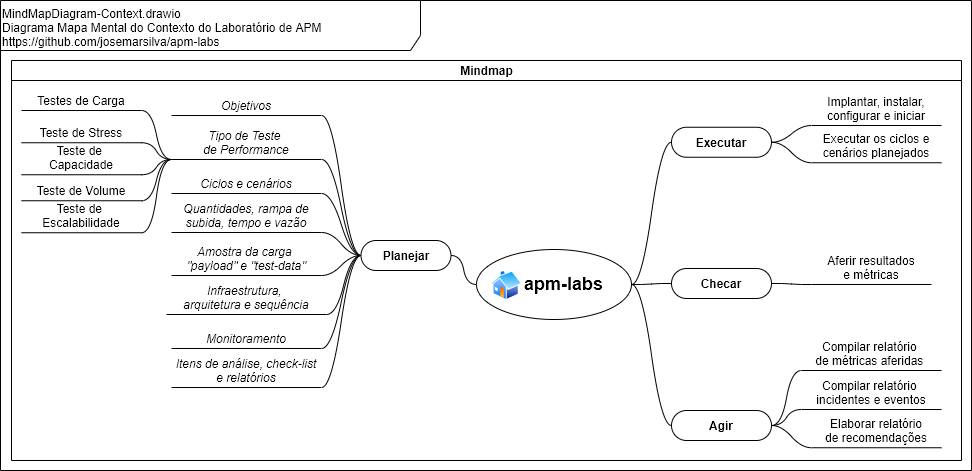
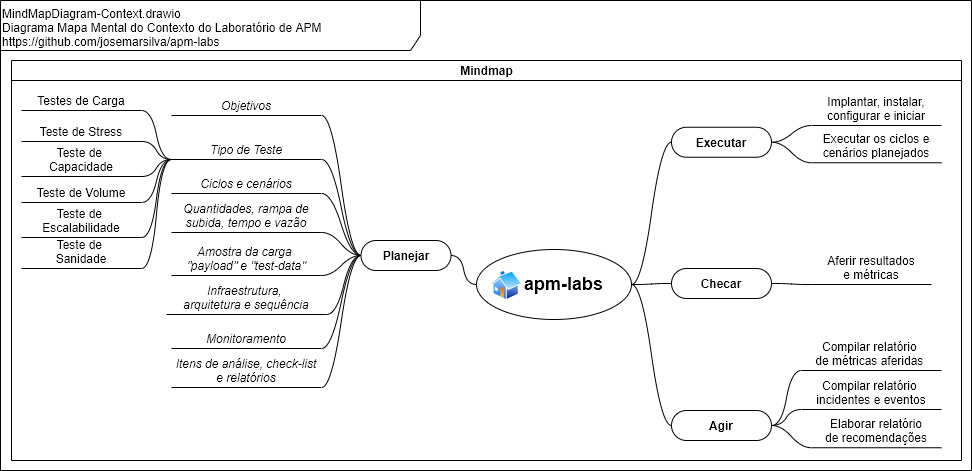
doc

Changed region(s): [[0.0309, 0.2675, 0.1852, 0.5648], [0.216, 0.2675, 0.3086, 0.327]]

diff --git a/README.md b/README.md
@@ -1,8 +1,26 @@
 # README - apm-labs
 
+Tabela de Conteúdo
+* 1. Introdução
+* 2. Documentação
+  * 2.1. Diagrama de Caso de Uso (Use Case Diagram)
+  * 2.2. Diagrama de Implantação (Deploy Diagram)
+  * 2.3. Diagrama de BPMN (Business Process Modeling Notation)
+  * 2.4. Diagrama de Mapa Mental (Mind Map Diagram)
+  * 2.5. Estratégia de Branches (Branch Strategy Workflow)
+  * 2.6. Glossário de Termos (Glossary)
+  * 2.7. Aviso
+* 3. Projeto
+  * 3.1. Pré-Requisitos, Pré-Condições e Premissas
+  * 3.2. Guia do Desenvolvedor e Administrador
+  * 3.3. Guia de Implantação, Configuração e Instalação
+  * 3.4. Guia de Execução, Demonstração e Cenários de Teste
+  * 3.5. Design Patterns, Standard, Conventions and Best Practices
+* I - Referências
+
 ## 1. Introdução
 
-O projeto **apm-labs** consiste em explorar cenários de _performance test_, _stress test_, _load test_ e _tuning_ de aplicações.
+O projeto **apm-labs** consiste em explorar cenários de testes **_Performance Test_**, **_Stress Test_**, **_load Test_** e **_Tuning_** de aplicações.
 
 
 ## 2. Documentação
@@ -26,25 +44,33 @@ O projeto **apm-labs** consiste em explorar cenários de _performance test_, _st
 
 ![MindMapDiagram-Context.png](./doc/MindMapDiagram-Context.png) 
 
-De uma forma geral, vamos tentar caracterizar cada um dos *tipos de testes* de acordo com seus _objetivos_ e _características_ :
 
-* *Teste de Carga*: tem como objetivo avaliar a capacidade da aplicação de manter a qualidade de desempenho _quando submetida a quantidades_ diversas de usuários ou transações
-* *Teste de Capacidade*: semelhante ao teste de carga, tem como objetivo _identificar os limites que a aplicação_ é capaz de suportar, _dentro de parâmetros de qualidades definidos_, quando submetida a elevação da quantidade de carga de usuários ou transações
-* *Teste de Stress*: tem como objetivo _encontrar o limite da aplicação_ ao submetê-la a cargas que estão no limite ou acima do limite especificado inicialmente de usuários ou transações
-* *Testes de Volume*: tem como objetivo avaliar capacidade da aplicação quando submetida a elevação da _quantidade de dados_ que o sistema pode gerenciar
-* *Testes de Escalabilidade*: tem como objetivo determinar a _eficácia da aplicação_ em suportar o aumento na carga
-
-É importante lembrar que a quantificação, metrificação ou definição dos seguintes termos abaixo relacionados *não se dá em termos absolutos*, isto é cada negócio, cliente, sistema ou funcionalidade podem ter parâmetros de qualidade diferentes para:
-* qualidade de desempenho
-* limite aceitáveis de ... (CPU, tempo de resposta, etc)
-* qual o melhor tipo de teste aplicar
-
-
-### 2.6. Estratégia de Branches (Branch Strategy Workflow)
+### 2.5. Estratégia de Branches (Branch Strategy Workflow)
 
 Sugestão de [estratégia de branches e workflow](https://github.com/josemarsilva/eval-git#38-estrat%C3%A9gia-de-gerenciamento-de-branches) :
 * `master`: pronto para produção
 * `develop`: último desenvolvimento pronto para produção
+
+
+### 2.6. Glossário de Termos (Glossary)
+
+De uma forma geral, vamos tentar <ins>definir</ins> e **_caracterizar_** alguns dos termos utilizados neste projeto de laboratório para permitir uma melhor compreensão e entendimento:
+
+* **Teste de Capacidade ou Capacity Test**: semelhante ao teste de carga, tem como objetivo **_identificar os limites que a aplicação_** é capaz de suportar, **_dentro de parâmetros de qualidades definidos_**, quando submetida a elevação da quantidade de carga de usuários ou transações
+* **Teste de Carga ou Load Test**: tem como objetivo avaliar a capacidade da aplicação de manter a qualidade de desempenho **_quando submetida a quantidades_** diversas de usuários ou transações
+* **Teste de Escalabilidade ou Scalability Test**: tem como objetivo determinar a **_eficácia da aplicação_** em suportar o aumento na carga
+* **Teste de Sanidade ou Sanity Test**: tem como objetivo indentificar se a aplicaçao está **_respondendo corretamente_**
+* **Teste de Estresse ou Stress Test**: tem como objetivo **_encontrar o limite da aplicação_** ao submetê-la a cargas que estão no limite ou acima do limite especificado inicialmente de usuários ou transações
+* **Teste de Volume ou Volume Test**: tem como objetivo avaliar capacidade da aplicação quando submetida a elevação da **_quantidade de dados_** que o sistema pode gerenciar
+
+
+### 2.7. Avisos
+
+É importante lembrar que a quantificação, metrificação ou definição dos parâmetros de qualidade *não se dá em termos absolutos*, isto é cada negócio, cliente, sistema ou funcionalidade podem ter parâmetros de qualidade diferentes para:
+* qualidade de desempenho
+* limite aceitáveis de ... (% CPU, tempo de resposta, etc)
+* qual o melhor tipo de teste aplicar
+
 
 
 ## 3. Projeto
@@ -186,6 +212,8 @@ nodejs-webserver> node nodejs-webserver.js
   * https://en.wikipedia.org/wiki/Application_performance_management
   * [Quais os tipos de testes de desempenho](https://blog.cedrotech.com/entenda-o-que-sao-os-testes-de-desempenho/)
   * [Tipos de Testes de Performance](https://www.youtube.com/watch?v=HhShUc9OarE)
+  * [Introdução e diferença entre Sanity Testing vs Smoke Testing](https://www.guru99.com/smoke-sanity-testing.html)
+  * [Entendendo teste de software: Teste de Sanidade](https://willianjusten.com.br/entendendo-testes-de-software/#smoke)
 * Design Patterns
   * [Service Design Patterns by Martin Fowler](https://martinfowler.com/books/sdp.html)
   * [Service Design Patterns - Request/Response](http://www.servicedesignpatterns.com/ClientServiceInteractions/RequestResponse)
